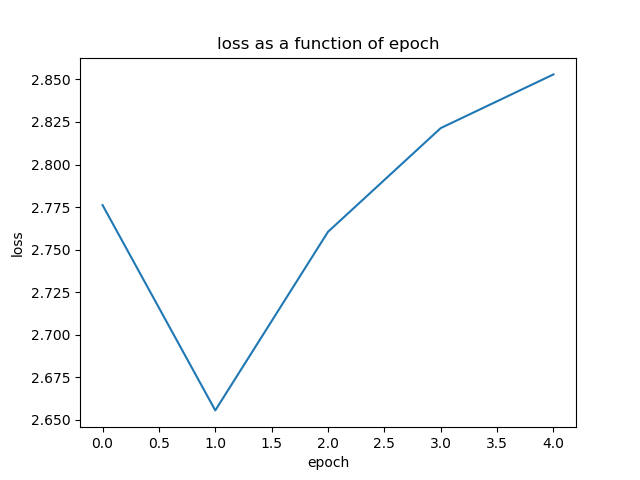
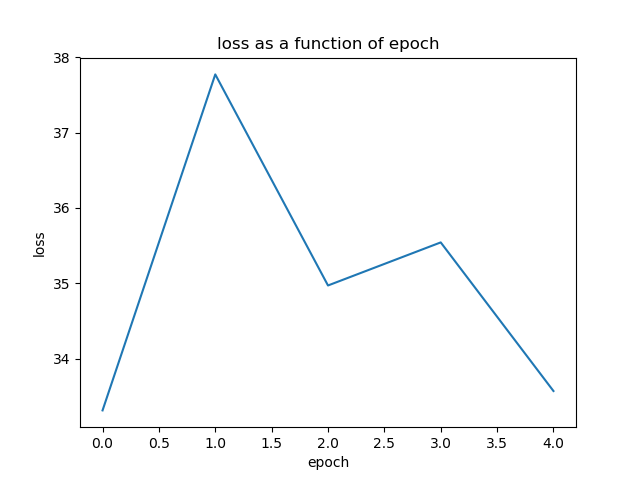
Final Accuracy

diff --git a/plot_val.py b/plot_val.py
@@ -18,7 +18,7 @@ for data in train_data:
 plt.title("loss as a function of epoch")
 plt.xlabel("epoch")
 plt.ylabel("loss")
-plt.plot(output_data)
+plt.plot(accuracy_data)
 plt.savefig("loss_for_accus")
 print(output_data)
 
